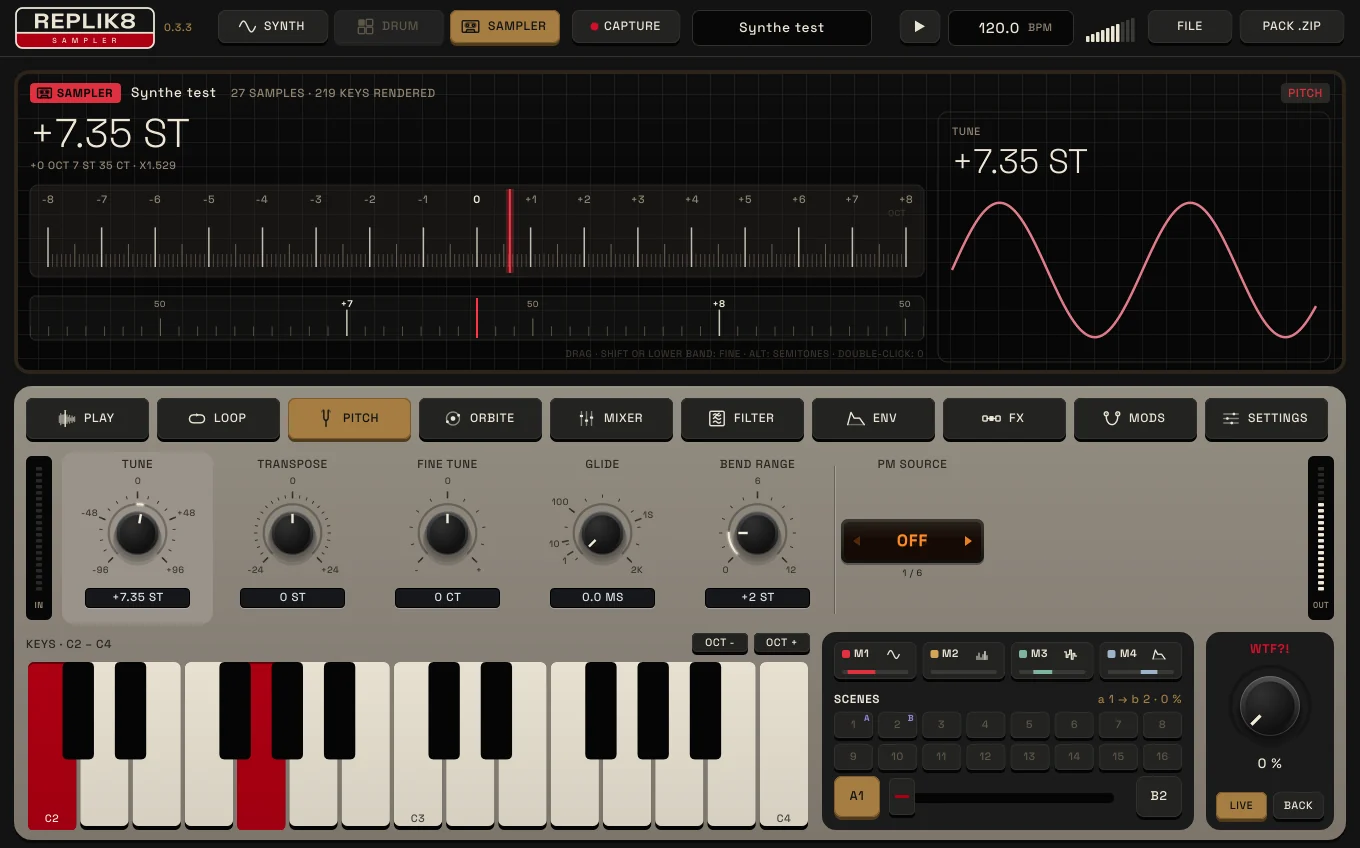
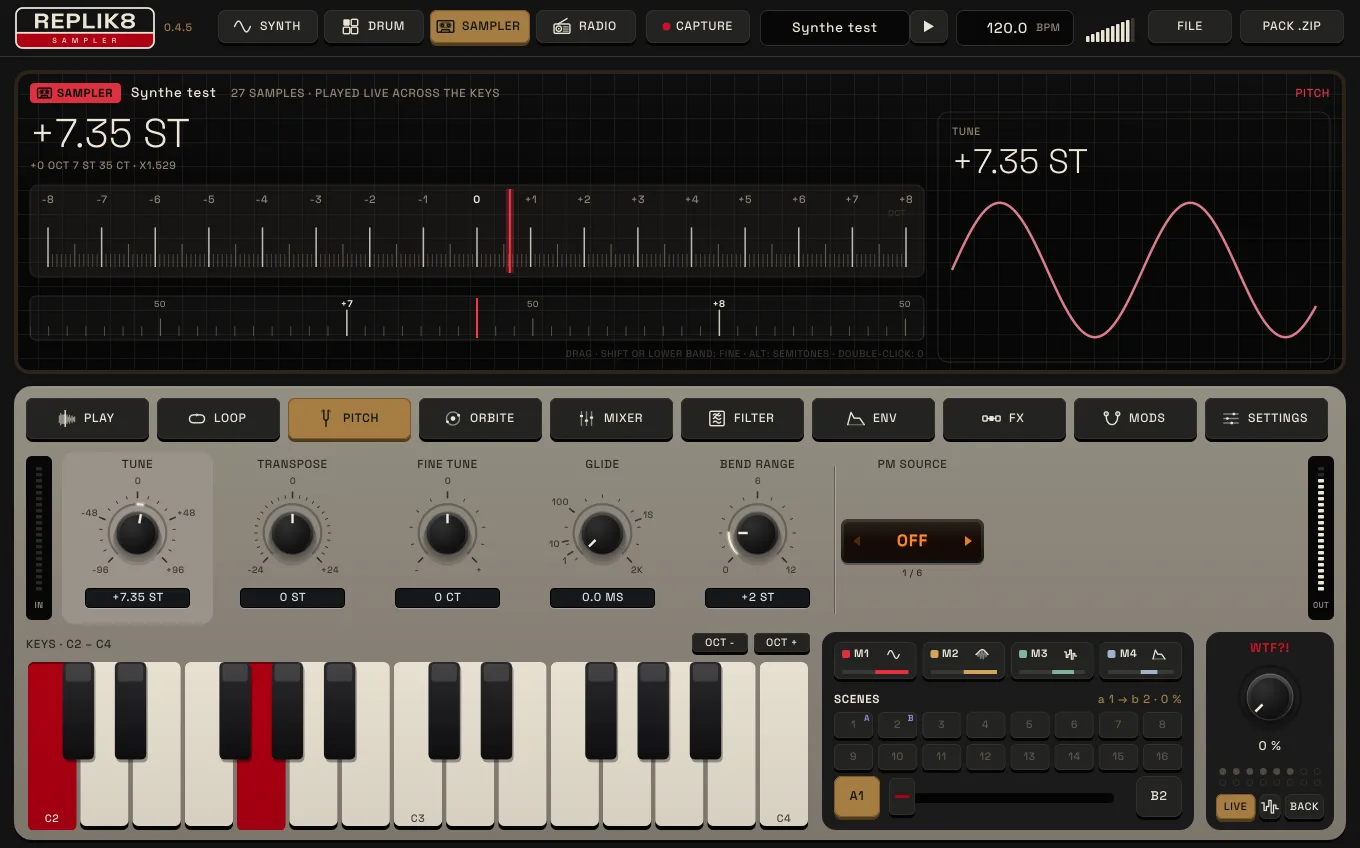
REPLIK8 0.4.6: ECHO, COMP in SETTINGS, CAPTURE CYCLES LISTEN, bank tabs, the screen dragged, effects reordered by a long press, three keyboards, the radio's keys redrawn, tutorials on the site
Claude-Session: https://claude.ai/code/session_019CKNRPzxoxv9FfQ5Cf3pp3

diff --git a/site/index.html b/site/index.html
@@ -26,6 +26,7 @@
     <a href="#effets">Effets</a>
     <a href="#moduler">Moduler</a>
     <a href="#partager">Partager</a>
+    <a href="#tutos">Tutos</a>
   </nav>
   <a class="light" href="#telecharger"><b></b><span class="ver">v@VERSION@</span></a>
 </header>
@@ -63,12 +64,12 @@
     <div><h3><svg class="p" viewBox="0 0 24 24"><rect x="1.5" y="7" width="21" height="10" rx="2"/><path d="M5 17v-3M8 17v-2M11 17v-3M14 17v-2M17 17v-3M20 17v-2" opacity=".6"/><path class="f" d="M12.6 5.5h-1.2v13h1.2z"/></svg>Cadran</h3><p>Un cadran de syntonisation sur l'écran&nbsp;: ±96 demi-tons, au cent près. Huit octaves de chaque côté, sans repliement.</p></div>
     <div><h3><svg class="p" viewBox="0 0 24 24"><path d="M2 12h3c1.2 0 1.6-7 3.2-7s2 14 3.6 14 2-10 3.4-10 1.6 3 2.8 3H22" /></svg>Moteur de lecture</h3><p>Des noyaux sinc de 128 points, une coupure qui suit la vitesse jusque dans la modulation de phase. Transposé, le son reste limpide.</p></div>
     <div><h3><svg class="p" viewBox="0 0 24 24"><rect x="1.5" y="5" width="21" height="14" rx="1"/><path d="M7.5 5v14M12 5v14M16.5 5v14" opacity=".6"/><rect class="f" x="6.2" y="5" width="2.6" height="8"/><rect class="f" x="10.7" y="5" width="2.6" height="8"/></svg>Capture des notes</h3><p>Ton synthé échantillonné tout seul&nbsp;: chaque note, chaque vélocité, bouclée et accordée. Toi, tu vas te faire un café.</p></div>
-    <div><h3><svg class="p" viewBox="0 0 24 24"><path d="M5 10c1.6-5 4.8-5 6.4 0s4.8 5 6.4 0" opacity=".35"/><path d="M3.5 12.5c1.6-5 4.8-5 6.4 0s4.8 5 6.4 0" opacity=".65"/><path d="M2 15c1.6-5 4.8-5 6.4 0s4.8 5 6.4 0"/></svg>Capture des cycles</h3><p>Balaie un bouton de ton synthé&nbsp;: chaque position devient un cycle. Une banque d'ondes faite de ton propre son.</p></div>
+    <div><h3><svg class="p" viewBox="0 0 24 24"><path d="M5 10c1.6-5 4.8-5 6.4 0s4.8 5 6.4 0" opacity=".35"/><path d="M3.5 12.5c1.6-5 4.8-5 6.4 0s4.8 5 6.4 0" opacity=".65"/><path d="M2 15c1.6-5 4.8-5 6.4 0s4.8 5 6.4 0"/></svg>Capture des cycles</h3><p>Balaie un bouton de ton synthé&nbsp;: chaque position devient un cycle. Ou lance l'écoute, va jouer ta note en tournant un potard&nbsp;: la banque se fait toute seule.</p></div>
     <div><h3><svg class="p" viewBox="0 0 24 24"><rect x="1.5" y="9" width="21" height="12.5" rx="1.6"/><circle cx="7.5" cy="15.2" r="3.4"/><circle class="f" cx="7.5" cy="15.2" r="1.1"/><path d="M14 12.5h5.5M14 15.2h5.5M14 17.9h5.5" opacity=".6"/><path d="M6.5 9 18.5 2"/></svg>Radio</h3><p>Une station sur internet ou un récepteur ondes courtes, avec le fading et les craquements de l'air. Samples-la&nbsp;: la prise est découpée en pads.</p></div>
     <div><h3><svg class="p" viewBox="0 0 24 24"><rect x="2.5" y="2.5" width="8" height="8" rx="1.4"/><rect class="f" x="13.5" y="2.5" width="8" height="8" rx="1.4"/><rect class="f" x="2.5" y="13.5" width="8" height="8" rx="1.4"/><rect x="13.5" y="13.5" width="8" height="8" rx="1.4"/></svg>Drum</h3><p>Huit pistes et leur séquenceur de 64 pas&nbsp;: une voix faite des cycles du synthé, un son, ou une prise de la radio et ses tranches.</p></div>
     <div><h3><svg class="p" viewBox="0 0 24 24"><path d="M14.6 4.6A8 8 0 1 1 6.3 6"/><path class="f" d="M5 3.2l4.4 1.4-3.2 3.4z"/><circle class="f" cx="12" cy="12" r="3"/></svg>Rééchantillonner</h3><p>Enregistre ce qui sort des effets et rejoue-le aussitôt, sans la moindre coupure. Puis repasse-le dans la machine.</p></div>
     <div><h3><svg class="p" viewBox="0 0 24 24"><rect x="2.5" y="2.5" width="19" height="19" rx="2"/><path d="M7 8c1.7-2.4 3.3 2.4 5 0s3.3 2.4 5 0M7 12c1.7-2.4 3.3 2.4 5 0s3.3 2.4 5 0M7 16c1.7-2.4 3.3 2.4 5 0s3.3 2.4 5 0"/><path d="M9.5 10.4l5-4.8"/></svg>Filtres</h3><p>Six filtres analogiques modélisés au plus près du circuit, suréchantillonnés, avec drive et réinjection FM.</p></div>
-    <div><h3><svg class="p" viewBox="0 0 24 24"><rect x="1" y="8.5" width="6" height="7" rx="1.2"/><rect class="f" x="9" y="8.5" width="6" height="7" rx="1.2"/><rect x="17" y="8.5" width="6" height="7" rx="1.2"/><path d="M7 12h2M15 12h2"/></svg>Effets</h3><p>Drive, spectre, pitch, chorus, crush, espace. Glisse-les dans l'ordre que tu veux, coupe-les d'un interrupteur, en plein jeu, sans un clic.</p></div>
+    <div><h3><svg class="p" viewBox="0 0 24 24"><rect x="1" y="8.5" width="6" height="7" rx="1.2"/><rect class="f" x="9" y="8.5" width="6" height="7" rx="1.2"/><rect x="17" y="8.5" width="6" height="7" rx="1.2"/><path d="M7 12h2M15 12h2"/></svg>Effets</h3><p>Drive, spectre, pitch, chorus, crush, espace, écho. Dans l'ordre que tu veux, sans un clic et sans perdre de volume. Un compresseur en sortie.</p></div>
     <div><h3><svg class="p" viewBox="0 0 24 24"><circle cx="5" cy="6" r="2.8"/><circle cx="19" cy="6" r="2.8"/><circle class="f" cx="5" cy="6" r=".9"/><circle class="f" cx="19" cy="6" r=".9"/><path d="M5 8.8c0 15 14 15 14 0"/></svg>Mods et scènes</h3><p>Quatre modulateurs calés sur le tempo, seize scènes et un fader pour glisser de l'une à l'autre. Et WTF?! pour tout faire basculer.</p></div>
     <div><h3><svg class="p" viewBox="0 0 24 24"><rect x="4" y="9" width="16" height="12" rx="1.6"/><path d="M12 15V2M8 6l4-4 4 4"/></svg>Partage</h3><p>Un instrument complet dans un seul fichier. Tu l'envoies, ton pote le glisse dans REPLIK8, c'est joué.</p></div>
   </div>
@@ -135,10 +136,13 @@
   <ol class="steps-list">
     <li><kbd>NOTES</kbd><b>Un multisample, sans y passer la nuit.</b> Choisis la plage, jusqu'à 16 vélocités et 8 prises par note. REPLIK8 joue chaque note, coupe les attaques au bon endroit, trouve les boucles, vérifie la justesse et calcule les touches manquantes. <small>À la fin, ton instrument t'attend dans le sampler.</small></li>
     <li><kbd>CYC</kbd><b>Ta propre banque d'ondes.</b> Une note grave tenue 8 à 64 fois, pendant qu'un CC balaie un bouton du synthé, que la vélocité monte ou que tu tournes toi-même un potard. Chaque prise donne un cycle. <small>La banque part directement dans le synthé&nbsp;: tourne POSITION pour la parcourir. Elle est aussi exportée en wavetable standard de 2048 points.</small></li>
+    <li><kbd>LISTEN</kbd><b>Ou rien qu'en écoutant.</b> Lance la capture, va à ton synthé, tiens une note en tournant un bouton&nbsp;: l'enregistrement part dès que le son passe le seuil et s'arrête au silence. REPLIK8 suit la hauteur, garde les cycles là où le timbre bouge (plus nombreux quand il change vite), les aligne entre eux et en fait la banque. <small>Le grain de ta machine analogique, tel quel, dans le synthé.</small></li>
     <li><kbd>RÉÉ</kbd><b>Le son de tes effets, figé en instrument.</b> Enregistre 1, 2, 4 ou 8 mesures calées sur le tempo, ou en libre. À la fin, la boucle prend le relais sans un trou, les effets se remettent à zéro et le son devient un instrument du sampler. <small>Joue une note et tu reprends la main&nbsp;: transpose-le, boucle-le, repasse-le dans les effets. En insert, ça marche avec n'importe quelle piste de ton DAW.</small></li>
   </ol>
   <figure class="shot"><img src="img/capture-1360.webp" srcset="img/capture-680.webp 680w, img/capture-1360.webp 1360w" sizes="(max-width: 1100px) 100vw, 1070px" width="1360" height="848" loading="lazy" alt="Une capture de notes en cours sur le synthé test."></figure>
   <p class="cap">Une capture de notes en cours.</p>
+  <figure class="shot"><img src="img/ecoute-1360.webp" srcset="img/ecoute-680.webp 680w, img/ecoute-1360.webp 1360w" sizes="(max-width: 1100px) 100vw, 1070px" width="1360" height="848" loading="lazy" alt="LISTEN : le seuil sur le niveau d'entrée, et ce qui va se passer : attendre, enregistrer, suivre la hauteur, garder les cycles."></figure>
+  <p class="cap">LISTEN&nbsp;: le seuil, posé sur le niveau de l'entrée.</p>
   <figure class="shot"><img src="img/reechantillonner-1360.webp" srcset="img/reechantillonner-680.webp 680w, img/reechantillonner-1360.webp 1360w" sizes="(max-width: 1100px) 100vw, 1070px" width="1360" height="848" loading="lazy" alt="Rééchantillonner : une mesure en train de s'enregistrer."></figure>
   <p class="cap">Les mesures se remplissent, puis la boucle prend le relais.</p>
 </section>
@@ -174,11 +178,14 @@
     <li><kbd>ORBITE</kbd><b>Un troisième oscillateur, à part.</b> Un porteur triangle, scie ou carré, et deux satellites synchronisés qui le multiplient&nbsp;: un anneau qui reste harmonique. Quatre câblages (PARALLEL, CASCADE, FM, LOOP), et la rotation du satellite 2 qui fait tourner le timbre sans bouger la note.</li>
     <li><kbd>MIXER</kbd><b>Tout se retrouve avant le filtre</b>&nbsp;: osc A, osc B, sub, bruit et ORBITE, chacun son fader.</li>
     <li><kbd>FLT</kbd><b>Le même étage de sortie que le sampler</b>&nbsp;: filtres, enveloppes, drive et effets.</li>
+    <li><kbd>KEYS</kbd><b>Trois claviers</b>, au choix dans SETTINGS&nbsp;: ivoire et ébène, deux rangées de pads rétroéclairés, ou une dalle sombre dont les touches s'allument par en dessous.</li>
   </ul>
   <figure class="shot"><img src="img/orbite-1360.webp" srcset="img/orbite-680.webp 680w, img/orbite-1360.webp 1360w" sizes="(max-width: 1100px) 100vw, 1070px" width="1360" height="848" loading="lazy" alt="ORBITE : son onde sur deux cycles, le porteur et ses deux satellites en orbite, et les commandes du porteur."></figure>
   <p class="cap">ORBITE : son onde sur deux cycles, le porteur et ses satellites, le câblage choisi.</p>
   <figure class="shot"><img src="img/cycles-1360.webp" srcset="img/cycles-680.webp 680w, img/cycles-1360.webp 1360w" sizes="(max-width: 1100px) 100vw, 1070px" width="1360" height="848" loading="lazy" alt="Le SYNTH sur huit cycles capturés."></figure>
   <p class="cap">Huit cycles capturés sur le synthé test, du plus sombre au plus brillant.</p>
+  <figure class="shot"><img src="img/claviers-1360.webp" srcset="img/claviers-680.webp 680w, img/claviers-1360.webp 1360w" sizes="(max-width: 1100px) 100vw, 1070px" width="1360" height="1080" loading="lazy" alt="Les trois claviers : classique, pads, dalle sombre, un accord tenu."></figure>
+  <p class="cap">Les trois claviers, le même accord tenu.</p>
 </section>
 
 <!-- 06 SAMPLER ============================================================== -->
@@ -237,10 +244,16 @@
     <li><kbd>FLT</kbd><b>Six filtres analogiques</b> modélisés au plus près du circuit et suréchantillonnés&nbsp;: échelle à transistors, double filtre rugueux, variable d'état, double résonance, CMOS, ampli op saturé. L'écran dessine la courbe et le schéma de chacun.</li>
     <li><kbd>CUBE</kbd><b>Un filtre qu'on parcourt en trois dimensions</b>&nbsp;: sept sections de résonances et de creux aux huit coins d'un cube, et un point à déplacer dedans, à la souris, à l'enveloppe ou aux mods. Des voyelles qui se changent l'une en l'autre, des formants qui glissent, des peignes, des cloches, des caisses de résonance&nbsp;: dix cubes, et pas une couture entre deux coins.</li>
     <li><kbd>DRV</kbd><b>Drive</b>&nbsp;: lampe, console ou bande magnétique.</li>
-    <li><kbd>FX</kbd><b>Cinq effets</b>&nbsp;: spectre (le son redessiné par une nuée d'oscillateurs, analysé en libre, sur la grille, à chaque note ou à chaque attaque&nbsp;; ses partiels resserrés ou écartés, dans une bande ou autour d'un notch, figés, en fondu de l'ancienne hauteur à la nouvelle, et son feedback jusqu'au drone), pitch (deux voix, cristaux), chorus, crush, espace (une réverbération immense, avec shimmer). SPECTRE montre ses partiels à l'écran, avec leur traînée quand ils glissent. <b>Glisse les blocs</b>, drive compris, pour changer leur ordre en plein jeu, sans un clic. <b>Un interrupteur sur chaque bloc</b> le coupe ou le remet, sans toucher à son réglage.</li>
+    <li><kbd>FX</kbd><b>Six effets</b>&nbsp;: spectre (le son redessiné par une nuée d'oscillateurs, analysé en libre, sur la grille, à chaque note ou à chaque attaque&nbsp;; ses partiels resserrés ou écartés, dans une bande ou autour d'un notch, figés, en fondu de l'ancienne hauteur à la nouvelle, et son feedback jusqu'au drone), pitch (deux voix, cristaux), chorus, crush, espace (une réverbération immense, avec shimmer, son sec et son mouillé chacun leur niveau), écho. SPECTRE montre ses partiels à l'écran, avec leur traînée quand ils glissent. <b>Garde un bloc appuyé une seconde</b>&nbsp;: il sort de son emplacement, les autres se poussent pendant que tu le glisses, et il s'enfonce à sa nouvelle place quand tu le lâches. <b>Un interrupteur sur chaque bloc</b> le coupe ou le remet, sans toucher à son réglage. Et chaque effet garde le volume du son&nbsp;: tu l'ouvres, il s'ajoute, rien ne se creuse.</li>
+    <li><kbd>ECHO</kbd><b>Une bande et quatre têtes de lecture</b>&nbsp;: réparties sur le temps de la bande, chacune de son côté dans la stéréo. Elles lisent dans le sens de la bande, à l'envers, ou une sur deux à l'envers&nbsp;; elles restent en place, se balancent, glissent le long de la bande (chaque écho monte ou descend, jusqu'à l'octave, et le feedback les fait spiraler) ou sautent ailleurs au rythme que tu choisis. L'usure de la bande&nbsp;: pleurage, saturation, aigus perdus. À l'écran, la bande, ses têtes et l'endroit où tombent les échos.</li>
+    <li><kbd>COMP</kbd><b>Un compresseur en sortie</b>, dans SETTINGS&nbsp;: un seul bouton pour le seuil, le taux et le rattrapage, de rien du tout jusqu'au limiteur, puis au-delà&nbsp;: les coups passent sous leurs propres queues. Six attaques (les lentes laissent claquer les transitoires), cinq relâchements et AUTO pour les nappes. Il écoute le son lui-même, le sidechain du DAW, l'entrée ou une piste du DRUM. Gate, drive, mélange parallèle, et le volume qui reste à sa place.</li>
     <li><kbd>IN</kbd><b>Multi-effet</b>&nbsp;: en insert sur une piste, REPLIK8 traite n'importe quelle source, et tu peux rééchantillonner le résultat.</li>
   </ul>
   <figure class="shot"><img src="img/cube-1360.webp" srcset="img/cube-680.webp 680w, img/cube-1360.webp 1360w" sizes="(max-width: 1100px) 100vw, 1070px" width="1360" height="848" loading="lazy" alt="Le filtre CUBE : le cube en 3D et son point, les coins allumés selon leur part, les trois axes, les sept sections, la courbe du filtre."></figure>
+  <figure class="shot"><img src="img/echo-1360.webp" srcset="img/echo-680.webp 680w, img/echo-1360.webp 1360w" sizes="(max-width: 1100px) 100vw, 1070px" width="1360" height="848" loading="lazy" alt="ECHO : la bande, ses quatre têtes et leur sens de lecture, et en dessous l'endroit où tombent les échos ; les banques en onglets au bas de l'écran."></figure>
+  <p class="cap">ECHO&nbsp;: quatre têtes, une sur deux à l'envers, qui glissent le long de la bande.</p>
+  <figure class="shot"><img src="img/comp-1360.webp" srcset="img/comp-680.webp 680w, img/comp-1360.webp 1360w" sizes="(max-width: 1100px) 100vw, 1070px" width="1360" height="848" loading="lazy" alt="COMP dans SETTINGS : sa courbe, qui redescend passé le limiteur, et ce qu'il retire."></figure>
+  <p class="cap">COMP&nbsp;: la courbe redescend passé le limiteur.</p>
   <figure class="shot"><img src="img/effets-1360.webp" srcset="img/effets-680.webp 680w, img/effets-1360.webp 1360w" sizes="(max-width: 1100px) 100vw, 1070px" width="1360" height="848" loading="lazy" alt="SPECTRE à l'écran : ses partiels de part et d'autre d'un notch, écartés par WARP ; à droite, la chaîne d'effets, chaque bloc avec son interrupteur."></figure>
 </section>
 
@@ -248,10 +261,11 @@
 <section class="mod" id="moduler">
   <h2><span>10 · Moduler</span><svg class="p" viewBox="0 0 24 24"><circle cx="5" cy="6" r="2.8"/><circle cx="19" cy="6" r="2.8"/><circle class="f" cx="5" cy="6" r=".9"/><circle class="f" cx="19" cy="6" r=".9"/><path d="M5 8.8c0 15 14 15 14 0"/></svg></h2>
   <ul class="steps-list">
-    <li><kbd>M</kbd><b>Quatre modulateurs</b>&nbsp;: onde, pas dessinés à la souris, hasard qui revient en boucle, enveloppe, suiveur d'entrée. Tous calés sur le tempo.</li>
-    <li><kbd>1</kbd><b>Assigner, c'est tourner</b>&nbsp;: clique M1, tourne n'importe quel potard, la distance devient la profondeur. Un double-clic pour défaire.</li>
+    <li><kbd>M</kbd><b>Quatre modulateurs</b>&nbsp;: onde, pas dessinés à la souris, hasard qui revient en boucle, enveloppe, suiveur. Le suiveur écoute l'entrée audio, l'instrument lui-même, le sidechain du DAW, ou une seule piste du DRUM, et l'écran trace ce qu'il envoie.</li>
+    <li><kbd>1</kbd><b>Assigner, c'est tourner</b>&nbsp;: clique M1, tourne n'importe quel potard, la distance devient la profondeur&nbsp;: vers la droite, la modulation monte&nbsp;; vers la gauche, elle descend. En polarité ±, elle s'étend des deux côtés du réglage. Un double-clic pour défaire.</li>
     <li><kbd>AB</kbd><b>Seize scènes</b>&nbsp;: verrouille des réglages dans une scène, puis glisse de A à B avec le fader, à la main, en automation ou par un modulateur.</li>
-    <li><kbd>WTF</kbd><b>WTF?!</b>&nbsp;: les réglages qui comptent tirés au sort à chaque croche, en direct ou en boucle de huit. RETOUR pour revenir.</li>
+    <li><kbd>WTF</kbd><b>WTF?!</b>&nbsp;: les réglages qui comptent tirés au sort à chaque croche, en direct ou en boucle de 2 à 16 tirages (clique les points). Le dé en tire une autre&nbsp;; BACK pour revenir.</li>
+    <li><kbd>⇔</kbd><b>À la souris, sur l'écran</b>&nbsp;: glisse la courbe du filtre (coupure et résonance), les enveloppes, la pile de cycles, la bande du spectre, la bande de l'écho, la courbe du compresseur. Double-clic&nbsp;: retour au réglage d'origine.</li>
     <li><kbd>CLK</kbd><b>Horloge MIDI</b> pour tes machines, au tempo de ton choix ou à celui du DAW.</li>
   </ul>
   <figure class="shot"><img src="img/mods-1360.webp" srcset="img/mods-680.webp 680w, img/mods-1360.webp 1360w" sizes="(max-width: 1100px) 100vw, 1070px" width="1360" height="848" loading="lazy" alt="La page Mods : un modulateur en onde, ses routes."></figure>
@@ -266,6 +280,57 @@
     <li><kbd>ZIP</kbd><b>Pack .zip</b>&nbsp;: l'instrument, ses samples, ses cycles et son réglage dans un seul fichier. Envoie-le par mail ou AirDrop&nbsp;; de l'autre côté, il suffit de le glisser dans REPLIK8.</li>
   </ul>
   <p class="cap" style="margin:12px 24px 0">Tes instruments vivent dans <b>Musique › REPLIK8</b>, et ton projet s'en souvient.</p>
+</section>
+
+<!-- 12 TUTOS ============================================================== -->
+<section class="mod" id="tutos">
+  <h2><span>12 · Tutos</span><svg class="p" viewBox="0 0 24 24"><rect x="3" y="2.5" width="18" height="19" rx="2"/><path d="M7 7.5h10M7 11.5h10M7 15.5h6"/></svg></h2>
+  <p class="intro">Quelques recettes, pas à pas.</p>
+  <div class="daw">
+    <div><h3>Le grain d'un synthé analogique en banque d'ondes</h3><ol>
+      <li><b>Capture › Cycles</b>, Sweep sur <b>LISTEN</b>, Takes sur 32.</li>
+      <li>Règle <b>Threshold</b> au-dessus du souffle de ta carte son&nbsp;: le trait blanc, sur le vumètre de l'écran.</li>
+      <li><b>Capturer les cycles</b>, puis va au synthé. Tiens une note grave et tourne lentement un bouton&nbsp;: la coupure, la forme d'onde, la largeur d'impulsion.</li>
+      <li>Lâche la note&nbsp;: au bout d'une seconde et demie de silence (ou STOP), la prise est découpée en cycles.</li>
+      <li>Mode <b>SYNTH</b>, OSC A, Bank sur <b>CAPTURED</b>&nbsp;: tourne POSITION, ou glisse sur la pile de cycles.</li></ol></div>
+    <div><h3>Un multisample, le temps d'un café</h3><ol>
+      <li><b>Capture › Source</b>&nbsp;: l'entrée où arrive ton synthé, et sa sortie MIDI.</li>
+      <li><b>Tester une note</b>&nbsp;: le niveau doit bouger.</li>
+      <li><b>Notes</b>&nbsp;: la plage, une note sur trois, deux ou trois vélocités.</li>
+      <li><b>Lancer la capture</b>. À la fin, l'instrument joue dans le SAMPLER, ses boucles trouvées et ses touches calculées.</li></ol></div>
+    <div><h3>Une nappe qui pompe sur la grosse caisse</h3><ol>
+      <li>REPLIK8 joue ta nappe. Dans le DAW, envoie la piste de grosse caisse dans son <b>sidechain</b>.</li>
+      <li><b>SETTINGS › comp</b>&nbsp;: ON. Dans <b>comp +</b>, KEY sur <b>SIDECHAIN</b>.</li>
+      <li>AMOUNT vers 50&nbsp;%, ATTACK 0.3 ms, RELEASE 150 ms&nbsp;: la nappe se creuse à chaque coup et remonte.</li>
+      <li>Plus loin que 50&nbsp;%&nbsp;: les coups passent sous la nappe, elle est aspirée entre eux.</li>
+      <li>Sans DAW&nbsp;: en mode DRUM, KEY sur <b>DRUM 1</b>, et tout respire autour de la grosse caisse.</li></ol></div>
+    <div><h3>Des échos qui montent et qui descendent</h3><ol>
+      <li><b>FX</b>&nbsp;: allume ECHO avec son interrupteur, puis son onglet <b>echo</b>&nbsp;: SYNC sur 1/8 ., HEADS 4, FEEDBACK 70&nbsp;%.</li>
+      <li>Onglet <b>echo +</b>&nbsp;: DIRECTION sur ALT, MOTION sur SCAN, SWEEP vers 40&nbsp;%.</li>
+      <li>Joue des notes courtes&nbsp;: une tête sur deux fait monter l'écho, l'autre le fait descendre, et le feedback les fait spiraler.</li>
+      <li>WEAR pour user la bande, TONE à gauche pour l'assombrir à chaque passage.</li>
+      <li>Garde le bloc ECHO appuyé une seconde et glisse-le après ESPACE&nbsp;: les échos sortent secs de la réverbe.</li></ol></div>
+    <div><h3>Moduler vers le bas, ou des deux côtés</h3><ol>
+      <li><b>MODS</b>&nbsp;: M1 en <b>FOLLOW</b>, SOURCE sur SELF (l'instrument) ou sur une piste du DRUM.</li>
+      <li>POLARITY sur <b>+</b>&nbsp;: clique M1, puis tourne CUTOFF vers la gauche&nbsp;: la route est négative, le filtre se ferme à chaque coup.</li>
+      <li>POLARITY sur <b>±</b>&nbsp;: la modulation s'étend des deux côtés du réglage.</li>
+      <li>GAIN pour qu'un son discret aille au bout de la course&nbsp;; l'écran trace ce que le suiveur envoie.</li></ol></div>
+    <div><h3>WTF?! en boucle</h3><ol>
+      <li>Tourne <b>WTF?!</b>&nbsp;: en LIVE, un nouveau tirage à chaque croche.</li>
+      <li>Passe en <b>LOOP</b> et clique les points&nbsp;: une boucle de 2 à 16 tirages, qui revient sur le tempo.</li>
+      <li>Le <b>dé</b>&nbsp;: une autre boucle. Celle qui te plaît est gardée avec le son.</li>
+      <li><b>BACK</b>&nbsp;: le son tel qu'il est.</li></ol></div>
+    <div><h3>De la radio au drum</h3><ol>
+      <li><b>RADIO</b>&nbsp;: accorde un récepteur (TUNE), ON AIR.</li>
+      <li>Un truc passe&nbsp;: <b>GRAB</b> prend les dernières secondes, découpées en pads.</li>
+      <li>Choisis la piste dans le DRUM, puis sur la ligne <b>take</b>, la touche <b>drum</b>&nbsp;: une tranche par pas. Ou un seul pad, sur la ligne <b>pad</b>.</li>
+      <li>Mode <b>DRUM</b>&nbsp;: la piste joue la prise, lève des pas pour changer leur tranche.</li></ol></div>
+    <div><h3>Sculpter à la souris</h3><ol>
+      <li>Page <b>FILTER</b>&nbsp;: glisse sur la courbe, de côté pour la coupure, de haut en bas pour la résonance.</li>
+      <li>Page <b>ENV</b>&nbsp;: à gauche l'attaque, au milieu la décroissance et le maintien, à droite le relâchement.</li>
+      <li>Synthé&nbsp;: glisse sur la pile de cycles pour la parcourir. Sampler&nbsp;: sur l'onde, pour le début.</li>
+      <li>Maj pour aller plus fin, double-clic pour revenir au réglage d'origine.</li></ol></div>
+  </div>
 </section>
 
 </main>

diff --git a/Tests/ProcessorTests.cpp b/Tests/ProcessorTests.cpp
@@ -493,6 +493,39 @@ int main()
         CHECK (before.options.monitor == 0, "a 0.3.4 project's DIRECT back to OFF: %d", before.options.monitor);
     }
 
+    // (0.4.5) a project from before: its six stages get ECHO before ESPACE; its ENV and FOLLOW stay one-way (+);
+    // WTF?!'s seed comes back
+    {
+        ReplikantProcessor proc;
+        auto set = [&proc] (int id, float v) { if (auto* q = proc.params.getParameter (snd::def (id).id)) q->setValueNotifyingHost (q->convertTo0to1 (v)); };
+        set (snd::m2Type, 4.0f);         // FOLLOW
+        set (snd::m2Polarity, 0.0f);
+        proc.player.setFxOrder ({ 0, 5, 1, 2, 3, 4, 6 });
+        proc.player.wtfSeed = 12345u;
+        juce::MemoryBlock st;
+        proc.getStateInformation (st);
+        ReplikantProcessor same;
+        same.setStateInformation (st.getData(), (int) st.getSize());
+        CHECK (same.player.fxOrder() == proc.player.fxOrder(), "the chain's order comes back");
+        CHECK (same.player.wtfSeed.load() == 12345u, "WTF?!'s seed comes back: %u", same.player.wtfSeed.load());
+        CHECK (same.player.get (snd::m2Polarity) < 0.5f, "a FOLLOW saved in ± stays ±");
+        // as a 0.4.4 project had them: six stages, no polarity mark
+        auto xml = juce::AudioProcessor::getXmlFromBinary (st.getData(), (int) st.getSize());
+        xml->setAttribute ("fxOrder", "[\"drive\", \"espace\", \"spectre\", \"pitch\", \"chorus\", \"crush\"]");
+        auto mods = juce::JSON::parse (xml->getStringAttribute ("routes"));
+        for (int m = 0; m < mods.size(); ++m)
+            if (auto* o = mods[m].getDynamicObject())
+                o->removeProperty ("polarity");
+        xml->setAttribute ("routes", juce::JSON::toString (mods, true));
+        juce::MemoryBlock old;
+        juce::AudioProcessor::copyXmlToBinary (*xml, old);
+        ReplikantProcessor before;
+        before.setStateInformation (old.getData(), (int) old.getSize());
+        const auto o = before.player.fxOrder();
+        CHECK (o[0] == 0 && o[1] == 6 && o[2] == 5 && o[3] == 1 && o[6] == 4, "ECHO in before ESPACE: %d %d %d %d %d %d %d", o[0], o[1], o[2], o[3], o[4], o[5], o[6]);
+        CHECK (before.player.get (snd::m2Polarity) > 0.5f, "an old FOLLOW stays one-way");
+    }
+
     // the capture page open, a real input: ÉCOUTE DIRECT lets it through (and closed, it doesn't)
     for (bool open : { true, false })
     {

diff --git a/Tests/PlayerTests.cpp b/Tests/PlayerTests.cpp
@@ -626,7 +626,7 @@ static void testStability()
         p.set (snd::quality, 2.0f);
         p.set (snd::dModel, (float) (model % 3 + 1));
         p.set (snd::dAmt, 1.0f);
-        for (int fx : { snd::spOn, snd::piOn, snd::chOn, snd::crOn, snd::rvOn })
+        for (int fx : { snd::spOn, snd::piOn, snd::chOn, snd::crOn, snd::rvOn, snd::ecOn, snd::cpOn })
             p.set (fx, 1.0f);
         p.set (snd::rvShimmer, 1.0f);
         p.set (snd::rvDecay, 1.0f);
@@ -681,7 +681,7 @@ static void testCpu()
         p.set (snd::pmIndex, 40.0f);
         p.set (snd::playMode, (float) elastic);
         p.set (snd::dModel, 3.0f);
-        for (int fx : { snd::spOn, snd::piOn, snd::chOn, snd::crOn, snd::rvOn })
+        for (int fx : { snd::spOn, snd::piOn, snd::chOn, snd::crOn, snd::rvOn, snd::ecOn, snd::cpOn })
             p.set (fx, 1.0f);
         std::vector<Event> ev;
         for (int k = 0; k < 8; ++k)
@@ -704,7 +704,7 @@ static void testCpu()
         p.set (snd::pmBA, 0.5f);
         p.set (snd::subLevel, 0.3f);
         p.set (snd::dModel, 3.0f);
-        for (int fx : { snd::spOn, snd::piOn, snd::chOn, snd::crOn, snd::rvOn })
+        for (int fx : { snd::spOn, snd::piOn, snd::chOn, snd::crOn, snd::rvOn, snd::ecOn, snd::cpOn })
             p.set (fx, 1.0f);
         std::vector<Event> ev;
         for (int k = 0; k < 8; ++k)

diff --git a/Source/ui/Machine.cpp b/Source/ui/Machine.cpp
@@ -1859,8 +1859,8 @@ private:
         const auto& pat = d.pattern (d.playingPattern());
         const int sel = juce::jlimit (0, drum::numTracks - 1, proc().drumTrack.load());
         const auto& tk = pat.tr[sel];
-        const auto& lifted = m.drumEdit->lifted;
-        auto v = [&] (int param) { return lifted.empty() ? tk.p[param] : tk.at (lifted.front(), param); };
+        const auto& raised = m.drumEdit->lifted;
+        auto v = [&] (int param) { return raised.empty() ? tk.p[param] : tk.at (raised.front(), param); };
         auto stroke = [&] (const juce::Path& path, juce::Colour c, float t = 2.5f) { g.setColour (c); g.strokePath (path, juce::PathStrokeType (t, juce::PathStrokeType::curved)); };
         auto caption = [&] (const juce::String& t) { text (g, t, r.removeFromBottom (14.0f), mono (10.0f), col::screenDim, juce::Justification::centredLeft, true); };
         auto decaySeconds = [] (float dec) { return dec >= 0.99f ? 4.0f : 0.01f * std::pow (400.0f, dec); };

diff --git a/README.md b/README.md
@@ -1,8 +1,15 @@
 # REPLIK8
 
-**REPLIK8** (anciennement REPLIKANT) : l'autosampleur de tes synthés, un synthé à cycles et un sampler. Plug-in AU / VST3 et appli pour Mac. Il capture tes synthés (chaque note jouée en MIDI et enregistrée, bouclée, accordée ; ou leurs cycles, pendant qu'un CC balaie un bouton ; ou ce qui sort de tes effets) et en fait des instruments : le SYNTHÉ lit des banques de cycles, le SAMPLER joue un multisample ou n'importe quel son glissé sur la fenêtre. ORBITE (un porteur et deux satellites synchronisés, quatre câblages, une rotation qui fait tourner le timbre) s'y ajoute dans le MIXER. Les deux passent dans des filtres analogiques modélisés, un drive, cinq effets dans l'ordre que tu veux (chaque bloc a son interrupteur), quatre modulateurs et seize scènes. REPLIK8 sert aussi de multi-effet en insert. Le SUB (sinus sur la note, ou le sample relu une ou deux octaves plus bas, crossover, jamais sous 25 Hz) s'y ajoute. La lecture des samples : sinc de 128 points précalculé, coupure qui suit la vitesse (PM comprise), copies à l'octave jusqu'à 1/256, cadran TUNE de ±96 demi-tons. Exports en dossier de WAV, en `.multisample` Bitwig ou en pack zip à partager. La RADIO (0.3.5) écoute une station internet ou un récepteur ondes courtes, avec son air, et la sample : prises découpées à leurs attaques en pads, ou envoyées au sampler. Le DRUM (0.4) : huit pistes (une voix faite des cycles du synthé, un son, ou une prise de la radio et ses tranches) et leur séquenceur de 64 pas.
+**REPLIK8** (anciennement REPLIKANT) : l'autosampleur de tes synthés, un synthé à cycles et un sampler. Plug-in AU / VST3 et appli pour Mac. Il capture tes synthés (chaque note jouée en MIDI et enregistrée, bouclée, accordée ; ou leurs cycles, pendant qu'un CC balaie un bouton ; ou ce qui sort de tes effets) et en fait des instruments : le SYNTHÉ lit des banques de cycles, le SAMPLER joue un multisample ou n'importe quel son glissé sur la fenêtre. ORBITE (un porteur et deux satellites synchronisés, quatre câblages, une rotation qui fait tourner le timbre) s'y ajoute dans le MIXER. Les deux passent dans des filtres analogiques modélisés, un drive, six effets dans l'ordre que tu veux (chaque bloc a son interrupteur, dont un écho à quatre têtes), un compresseur en sortie, quatre modulateurs et seize scènes. REPLIK8 sert aussi de multi-effet en insert. Le SUB (sinus sur la note, ou le sample relu une ou deux octaves plus bas, crossover, jamais sous 25 Hz) s'y ajoute. La lecture des samples : sinc de 128 points précalculé, coupure qui suit la vitesse (PM comprise), copies à l'octave jusqu'à 1/256, cadran TUNE de ±96 demi-tons. Exports en dossier de WAV, en `.multisample` Bitwig ou en pack zip à partager. La RADIO (0.3.5) écoute une station internet ou un récepteur ondes courtes, avec son air, et la sample : prises découpées à leurs attaques en pads, ou envoyées au sampler. Le DRUM (0.4) : huit pistes (une voix faite des cycles du synthé, un son, ou une prise de la radio et ses tranches) et leur séquenceur de 64 pas.
 
 **Page de téléchargement** : https://distortedimages-code.github.io/REPLIKANT/
+
+## La version 0.4.6 : ECHO, COMP, LISTEN
+
+- **ECHO** (`dsp::Echo`, `Source/dsp/Echo`) : une bande stéréo d'environ 10 s (puissance de deux), quatre têtes à `place_k · TIME` (SPREAD), chacune lue par deux grains en sin² décalés d'une demi-période (le lecteur à ligne à retard des pitch shifters) : vitesse de lecture ρ = ±1 (FWD, REV, ALT) ou ±2^(SWEEP) (SCAN), la distance de chaque grain `d + (1 − ρ)(φ − ½)P`, P choisi pour rester dans la bande (jusqu'à 1 s à l'envers, 100 ms en SCAN). WOBBLE (têtes paires et impaires en sens contraire), JUMP (sauts à RATE, rejoints en 6 ms). TIME glisse en 0,25 s (la bande ralentit), le pleurage et le scintillement de WEAR sont les mêmes pour toutes les têtes ; le retour passe par TONE (un-pôles), puis une saturation `tanh(x·d)/d` qui tient le feedback au-delà de 100 %. Remise à zéro sans effacer : ce qui précède est hors d'atteinte tant qu'il n'est pas réécrit. La chaîne passe à sept étages (ordre en base 7) ; un ordre gardé avec six reçoit ECHO avant ESPACE. `Tests/DspTests.cpp` (`testEcho`) : les têtes à 25, 50, 75 et 100 ms, SCAN à l'octave, REV qui renverse les rampes, 110 % tenu sur 10 s de bruit, TIME tourné sans clic, le coût (1,2 % d'un cœur, quatre têtes en SCAN).
+- **COMP** (`dsp::Comp`) : IN (+18 dB), une gate (tenue 30 ms, fermée de 60 dB en 60 ms), un calcul de gain en dB à genou de 6 dB : AMOUNT de 0 à 50 % donne une pente `1 − (1 − u)²` (de 1:1 à ∞:1) et un seuil jusqu'à −30 dB, au-delà une pente de 1,3 à 2 (1:−0,3 à 1:−1) et le seuil qui remonte à −14 dB ; attaque et relâchement sur le gain en dB (six attaques, cinq relâchements, AUTO : un relâchement de 60 ms sur un de 1,2 s), DRIVE, MIX parallèle, LEVEL. La sonie de la sortie ramenée en une seconde à celle de l'entrée (tenue dans les silences). Clé : SELF, SIDECHAIN, INPUT, DRUM 1..8 (les signaux de FOLLOW). `testComp` : rien à 0, le limiteur au milieu, la pente négative au-delà, la clé qui fait pomper, la gate, la sonie gardée à 2,5 dB.
+- **LISTEN** (`CycleListener`, `Source/engine/Listener.h` ; `dsp::cyclesFromTake`) : armé, la prise part au seuil (avec les 50 ms d'avant), finit après 1,5 s sous la moitié du seuil, STOP ou 30 s. Puis : la hauteur où c'est le plus fort (autocorrélation normalisée sur une copie à 12 kHz, le plus court décalage à 10 % du meilleur), suivie de place en place (`extractCycle` autour de la période précédente), un cycle à 4×N endroits, leurs 48 premiers harmoniques (log, niveau retiré), les N gardés à intervalles égaux le long du chemin parcouru par le timbre, chacun tourné pour coller au précédent (corrélation circulaire, 256 points puis au point près). `testListen` : un balayage de filtre suivi, dans l'ordre, aligné.
+- **Interface** : onglets des banques au bas de l'écran ; zones de l'écran glissées (`Screen::zone`) ; la chaîne d'effets réordonnée par un appui d'une seconde, les blocs animés vers leur place ; `Ctl::drawOption` (les positions d'un choix dessinées autour du potard) ; trois claviers (`Machine::setKeyStyle`) ; les touches de la RADIO redessinées.
 
 ## La version 0.4.5 : sans clics, des effets à niveau, FOLLOW
 

diff --git a/RELEASE_NOTES.md b/RELEASE_NOTES.md
@@ -1,3 +1,16 @@
+**REPLIK8 0.4.6** : ECHO, un compresseur en sortie, la capture de cycles à l'écoute, et une machine qu'on prend en main.
+
+- **ECHO**, un septième bloc dans la chaîne : une bande et quatre têtes de lecture, réparties sur son temps (libre ou calé sur le tempo), chacune de son côté dans la stéréo. Elles lisent dans le sens de la bande, à l'envers, ou une sur deux à l'envers ; elles restent en place, se balancent (WOBBLE), glissent le long de la bande pour faire monter ou descendre chaque écho jusqu'à l'octave (SCAN), ou sautent ailleurs (JUMP). FEEDBACK jusqu'à 110 % sans jamais exploser, TONE, WEAR (pleurage, saturation, aigus usés). À l'écran : la bande, ses têtes, et l'endroit où tombent les échos
+- **COMP**, dans SETTINGS, à la toute fin de la chaîne : un seul bouton pour le seuil, le taux et le rattrapage, de rien du tout jusqu'au limiteur, puis au-delà, où les coups passent sous leurs propres queues (pompe, aspiration). Six attaques, cinq relâchements et AUTO pour les nappes, un gain d'entrée, une gate, un drive, un mélange parallèle. Il écoute le son lui-même, le sidechain du DAW, l'entrée, ou une seule piste du DRUM. Le volume reste à sa place quand on le tourne. À l'écran, sa courbe et ce qu'il retire
+- **CAPTURE CYCLES › LISTEN** : lance la capture, va à ton synthé, tiens une note en tournant un bouton. L'enregistrement part au seuil et s'arrête au silence (ou STOP) ; REPLIK8 suit la hauteur, garde les cycles là où le timbre bouge, les aligne entre eux et en fait la banque du synthé
+- **Des onglets** au bas de l'écran pour les banques de chaque page (une lampe pour chaque effet allumé dans FX)
+- **À la souris sur l'écran** : la courbe du filtre (coupure, résonance), les enveloppes, la pile de cycles, le début du sample, la bande de SPECTRE, la bande d'ECHO, la courbe du COMP. Maj pour aller fin, double-clic pour revenir
+- **La chaîne d'effets** : garde un bloc appuyé une seconde, il sort de son emplacement ; glisse-le, les autres se poussent ; lâche-le, il s'enfonce à sa place
+- **SPECTRE** : ses formes d'onde dessinées autour de leur potard
+- **Trois claviers**, dans SETTINGS : CLASSIC, PADS (deux rangées rétroéclairées), FLAT (une dalle sombre qui s'allume par en dessous)
+- **RADIO** : ON AIR, REC, GRAB et les envois vers le SAMPLER et le DRUM redessinés, avec leurs pictos
+- Quelques textes de l'écran mal affichés (des accents) corrigés
+
 **REPLIK8 0.4.5** : plus un clic, des effets qui gardent le volume, un suiveur qui écoute ce que tu veux.
 
 - **Plus de clics** : tous les potards glissent en douceur, échantillon par échantillon (les niveaux du mixer, le DRIVE, les positions dans les cycles, le filtre). Changer de modèle de drive ou de filtre, de forme d'onde dans SPECTRE ou de mode dans CHORUS passe par un fondu de quelques millisecondes
